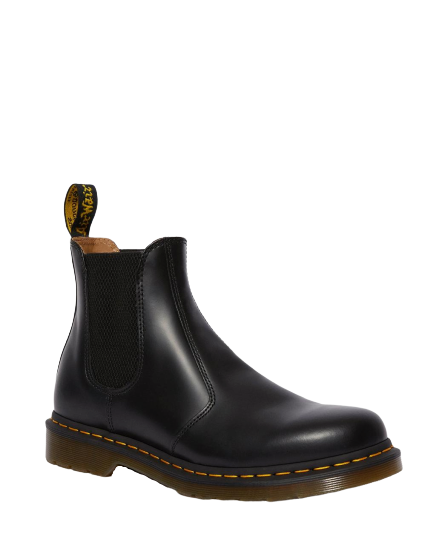
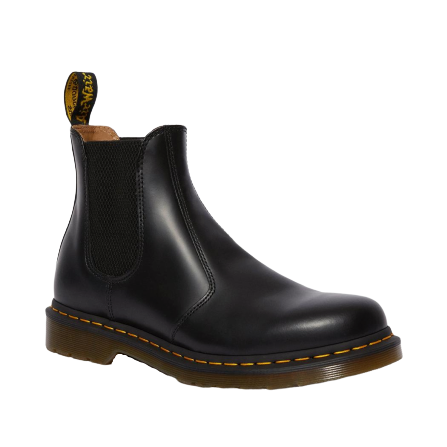
Add preview to wishlist

Changed region(s): [[0.0872, 0.1454, 0.9016, 0.9016]]

diff --git a/src/components/Block.js b/src/components/Block.js
@@ -5,14 +5,24 @@ export default class Block extends PureComponent {
   render() {
     return (
       <div className="block">
-        {this.renderImage()}
         <div>
+          {this.renderImage()}
           {this.renderTitle()}
           {this.renderSubtitle()}
           {this.renderText()}
         </div>
+        {this.renderPreview()}
       </div>
     )
+  }
+
+  renderPreview = () => {
+    const { title, preview } = this.props
+
+    if (!preview) {
+      return null
+    }
+    return <img src={preview} alt={title} className="blockPreview" />
   }
 
   renderImage = () => {
@@ -21,7 +31,7 @@ export default class Block extends PureComponent {
     if (!imageUrl) {
       return null
     }
-    return <img src={imageUrl} width="100" alt={title} className="blockImage" />
+    return <img src={imageUrl} alt={title} className="blockImage" />
   }
 
   renderTitle = () => {

diff --git a/src/styles/style.css b/src/styles/style.css
@@ -90,6 +90,8 @@ figure figcaption {
   margin-right: 1rem;
 }
 .block {
+  display: flex;
+  flex-direction: row;
   padding-bottom: 20px;
 }
 .blockTitle {
@@ -110,6 +112,11 @@ figure figcaption {
   display: block;
   width: 100%;
   margin-bottom: 10px;
+}
+.blockPreview {
+  display: block;
+  height: 3rem;
+  margin-left: 1rem;
 }
 
 @media (min-width: 1300px) {

diff --git a/src/pages/wishlist/index.js b/src/pages/wishlist/index.js
@@ -12,6 +12,7 @@ export default ({ data }) => (
           key={node.id}
           title={`${node.title} – $${node.price}`}
           subtitle={node.brand}
+          preview={node.image.publicURL}
         />
       ))}
     </div>
